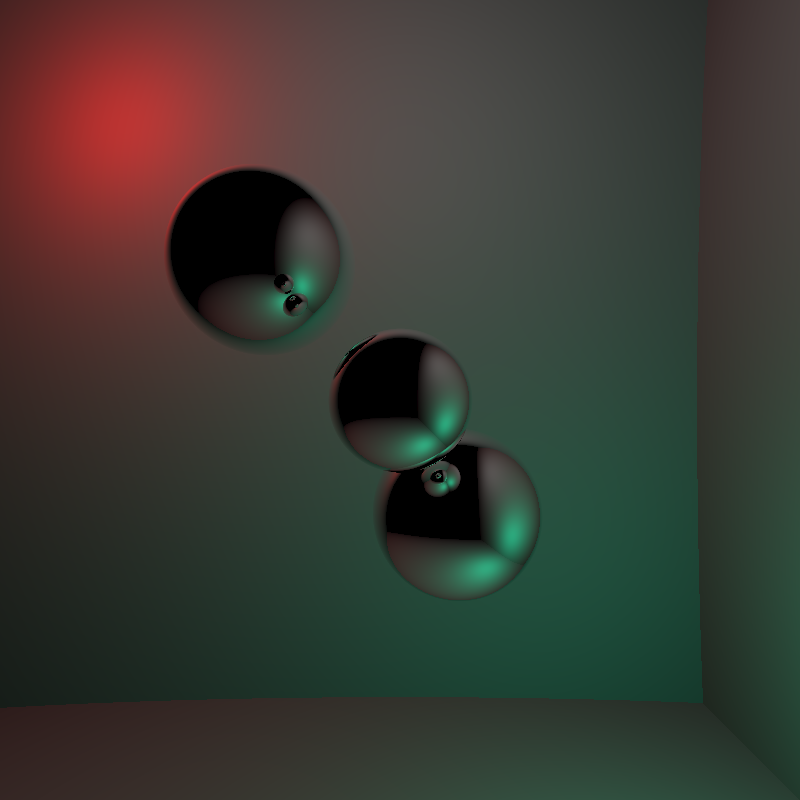
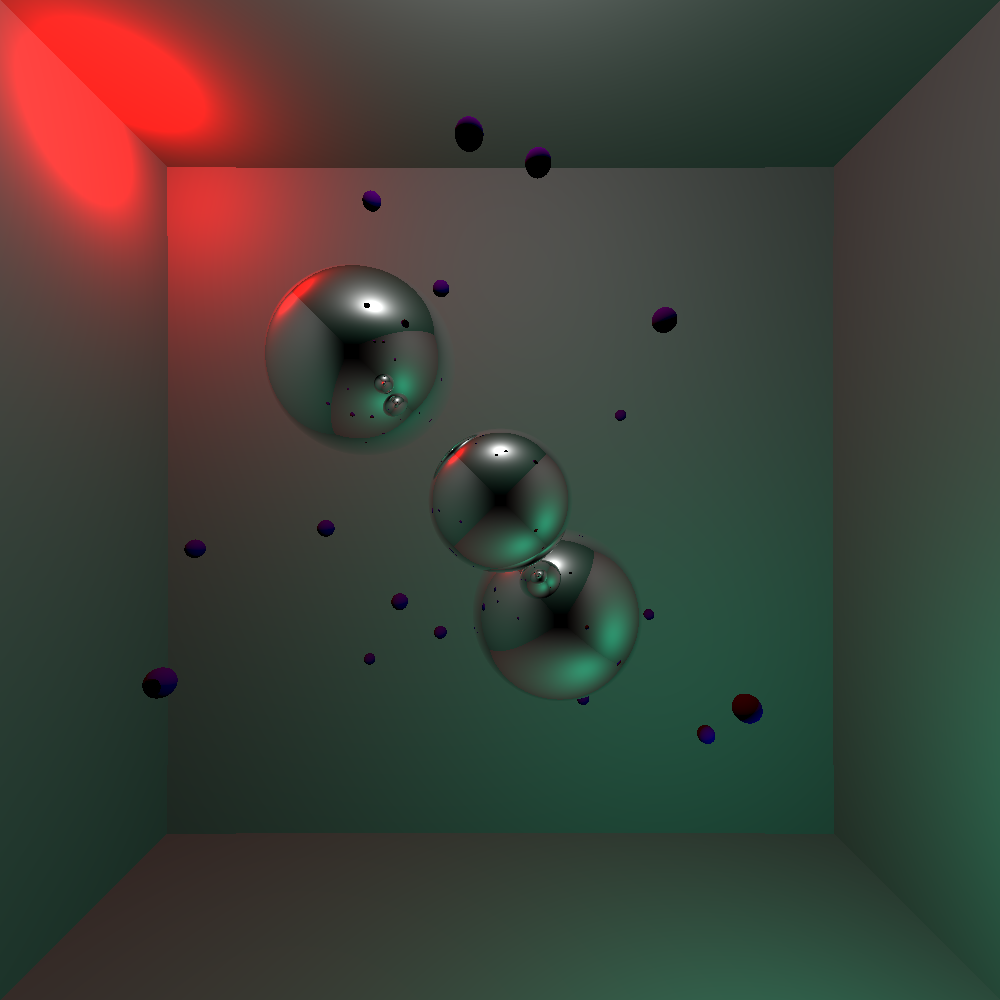
Raytracer : added seeded random sphere generator + big spheres in border to simulate a box

diff --git a/TP2/Synthese_TP2/Scene.cpp b/TP2/Synthese_TP2/Scene.cpp
@@ -5,21 +5,26 @@
 #define _USE_MATH_DEFINES
 #include <math.h>
 
-Scene::Scene(unsigned int width, unsigned int height, std::shared_ptr<Camera> camera, const color3 &backgroundColor) : m_width(width), m_height(height), m_camera(camera), m_backgroundColor(backgroundColor) {}
+Scene::Scene(unsigned int width, unsigned int height, std::shared_ptr<Camera> camera, const color3 &backgroundColor)
+    : m_width(width), m_height(height), m_camera(camera), m_backgroundColor(backgroundColor),
+      m_gen(757617000), m_disPosition(0.0f, 1000.0f), m_disSize(1.0f, 50.0f) {}
 
 Scene::~Scene() {}
 
 
 void Scene::generateSphere(unsigned int nb) {
 
-    
-
     for (unsigned int i = 0; i < nb; i++)
     {
-        glm::vec3 position(0, 0, 0); // Random 0 / 1000
-        color3 color(); // Random 0 / 1
 
-        //m_objectList.emplace_back(std::shared_ptr<SceneObject>(new Sphere(color3(0, 1, 1), SceneObjectType::REFLECTIVE, glm::vec3(0, 0, 200), 100)));
+        color3 color(0.3f, 0, 0.5f); // [0; 1] * 3
+
+        glm::vec3 position(m_disPosition(m_gen)-500.0f, m_disPosition(m_gen)-500.0f, m_disPosition(m_gen)); //[0, 1000] * 3
+
+        //float size = m_disSize(m_gen); // [1.0f, 50.0f]
+        float size = 15.0f;
+
+        m_objectList.emplace_back(std::shared_ptr<SceneObject>(new Sphere(color, SceneObjectType::DIFFUSE, position, size)));
     }
 
 }
@@ -28,13 +33,23 @@ void Scene::generateSphere(unsigned int nb) {
 void Scene::renderImage(const std::string &fileName) {
 
     m_lightList.emplace_back(glm::vec3(-900, -900, 700), color3(1000000, 0, 0));
-    m_lightList.emplace_back(glm::vec3(0, -900, 0), color3(1000000, 1000000, 1000000));
+    m_lightList.emplace_back(glm::vec3(0, -800, 0), color3(1000000, 1000000, 1000000));
     m_lightList.emplace_back(glm::vec3(500, 500, 0), color3(0, 1000000, 500000));
 
+    //Up
+    m_objectList.emplace_back(std::shared_ptr<SceneObject>(new Sphere(color3(1, 1, 1), SceneObjectType::DIFFUSE, glm::vec3(0, -100500.0f - m_height / 2.0f, 500.0f), 100000.0f)));
 
-    m_objectList.emplace_back(std::shared_ptr<SceneObject>(new Sphere(color3(1, 1, 1), SceneObjectType::DIFFUSE, glm::vec3(0, 10500 + m_height / 2, 500), 10000)));
-    m_objectList.emplace_back(std::shared_ptr<SceneObject>(new Sphere(color3(1, 1, 1), SceneObjectType::DIFFUSE, glm::vec3(10500 + m_width / 2, 0, 500), 10000)));
-    m_objectList.emplace_back(std::shared_ptr<SceneObject>(new Sphere(color3(1, 1, 1), SceneObjectType::DIFFUSE, glm::vec3(0, 0, 11000), 10000)));
+    //Down
+    m_objectList.emplace_back(std::shared_ptr<SceneObject>(new Sphere(color3(1, 1, 1), SceneObjectType::DIFFUSE, glm::vec3(100500.0f + m_width / 2.0f, 0, 500.0f), 100000.0f)));
+
+    //Left
+    m_objectList.emplace_back(std::shared_ptr<SceneObject>(new Sphere(color3(1, 1, 1), SceneObjectType::DIFFUSE, glm::vec3(-100500.0f - m_width / 2.0f, 0, 500.0f), 100000.0f)));
+
+    //Right
+    m_objectList.emplace_back(std::shared_ptr<SceneObject>(new Sphere(color3(1, 1, 1), SceneObjectType::DIFFUSE, glm::vec3(0, 100500.0f + m_height / 2.0f, 500.0f), 100000.0f)));
+
+    //Back
+    m_objectList.emplace_back(std::shared_ptr<SceneObject>(new Sphere(color3(1, 1, 1), SceneObjectType::DIFFUSE, glm::vec3(0, 0, 101000.0f), 100000.0f)));
 
 
     m_objectList.emplace_back(std::shared_ptr<SceneObject>(new Sphere(color3(0, 1, 1), SceneObjectType::REFLECTIVE, glm::vec3(0, 0, 200), 100)));
@@ -42,7 +57,7 @@ void Scene::renderImage(const std::string &fileName) {
     m_objectList.emplace_back(std::shared_ptr<SceneObject>(new Sphere(color3(1, 1, 1), SceneObjectType::REFLECTIVE, glm::vec3(-300, -300, 600), 200)));
 
 
-    generateSphere(10);
+    generateSphere(20);
 
 
     std::vector<std::vector<color3>> pixels(m_width, std::vector<color3>(m_height, color3(0, 0, 0)));

diff --git a/TP2/Synthese_TP2/Scene.h b/TP2/Synthese_TP2/Scene.h
@@ -1,17 +1,22 @@
 #pragma once
 
+// STD
 #include <string>
 #include <functional>
 #include <optional>
+#include <random>
 
 #include <iostream>
 
+// GLM
 #include <glm/glm.hpp>
 #include <glm/gtx/intersect.hpp>
 #include <glm/gtc/constants.hpp>
 
+// SFML
 #include <SFML/Graphics.hpp>
 
+// Project
 #include "Ray.h"
 #include "Light.h"
 #include "Camera.h"
@@ -32,6 +37,10 @@ private:
 	std::vector<std::shared_ptr<SceneObject>> m_objectList;
 	color3 m_backgroundColor;
 	sf::Image m_image;
+
+	std::mt19937 m_gen; //(757617000);
+	std::uniform_real_distribution<float> m_disPosition; //(0.0f, 1000.0f);
+	std::uniform_real_distribution<float> m_disSize; //(1.0f, 50.0f);
 
 public:
 	Scene(unsigned int width, unsigned int height, std::shared_ptr<Camera> camera, const color3 &backgroundColor);

diff --git a/TP2/Synthese_TP2/Synthese_TP2.cpp b/TP2/Synthese_TP2/Synthese_TP2.cpp
@@ -8,8 +8,8 @@
 int main()
 {
 
-    unsigned int width = 800;
-    unsigned int height = 800;
+    unsigned int width = 1000;
+    unsigned int height = 1000;
 
     // Orthogonal Camera
     //std::shared_ptr<Camera> cam = std::shared_ptr<OrthographicCamera>(new OrthographicCamera(width, height, glm::vec3(0, 0, 0), glm::vec3(0, 0, 1)) );
